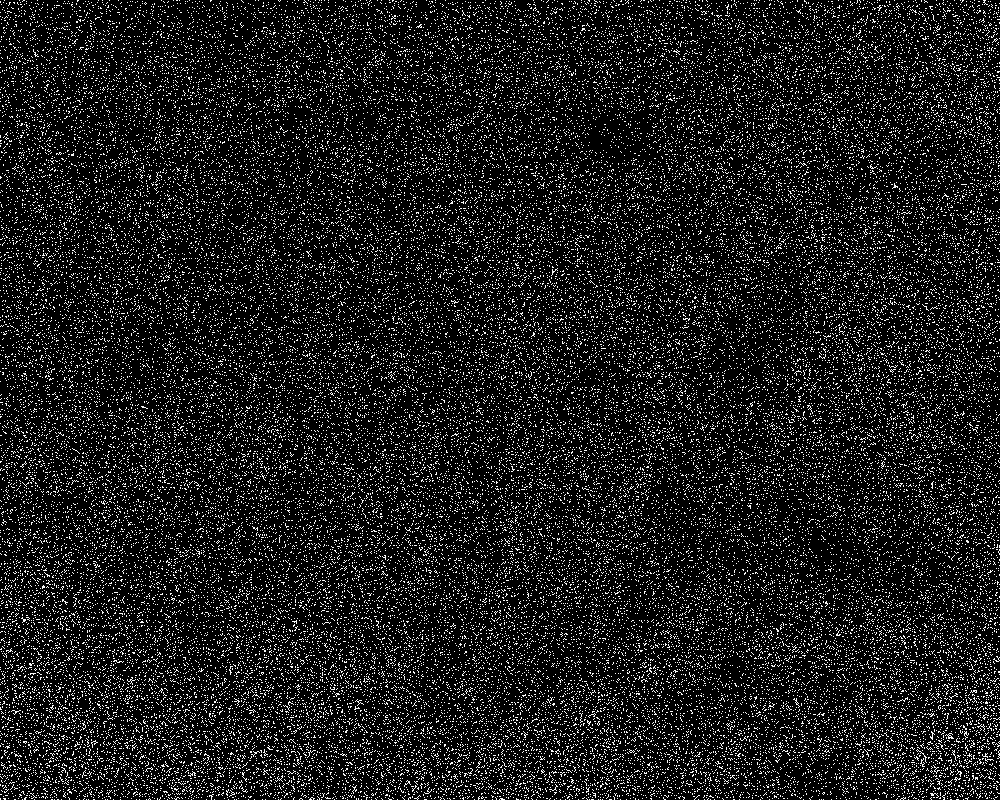
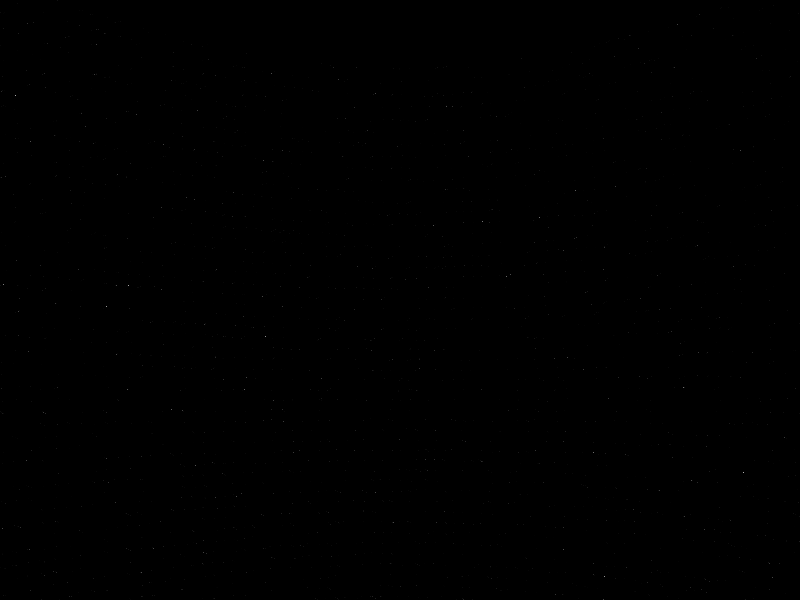
Working psf renderer (without PSF currently, but starfield renders, with distortion

diff --git a/src/rendering.rs b/src/rendering.rs
@@ -92,16 +92,20 @@ pub fn render_stars(
     );
     let pixel_ratio_w = width as f64 / fov_w;
     let pixel_ratio_h = height as f64 / fov_h;
+    let x_offset = width as f64 / 2.0;
+    let y_offset = width as f64 / 2.0;
 
     for star in stars {
         let std_star_coords = star.coords.to_standard(center);
         let std_star_mat = SMatrix::<f64, 2, 1>::new(std_star_coords.x, std_star_coords.y);
         let final_star_pos = z_roll_mat * std_star_mat;
 
-        let x = final_star_pos.x * pixel_ratio_w;
-        let y = final_star_pos.y * pixel_ratio_h;
+        let x = final_star_pos.x * pixel_ratio_w + x_offset;
+        let y = final_star_pos.y * pixel_ratio_h + y_offset;
+        println!("(x, y) | ({},{})", x, y);
         if (x < 0.0 || x > width as f64 || y < 0.0 || y > height as f64) {
-            break;
+            println!("Discarding star at ({}, {})", x, y);
+            continue;
         }
 
         // Inverse the magnitude scale (brighter stars have lower magnitudes)
@@ -110,23 +114,8 @@ pub fn render_stars(
         let brightness = (normalized_mag.powf(2.5) * 255.0) as u8;
         let color = Rgb([brightness, brightness, brightness]);
 
-        //img.put_pixel((x + ((width as f64) / 2.0)) as u32, (y + (height as f64) / 2.0) as u32, color);
         img.put_pixel(x as u32, y as u32, color);
     }
-    /*let std_star_coords = stars[0].coords.to_standard(center);
-    let std_star_mat = SMatrix::<f64, 2, 1>::new(std_star_coords.x, std_star_coords.y);
-    let final_star_pos = z_roll_mat * std_star_mat;
-
-    let x = final_star_pos.x * pixel_ratio_w;
-    let y = final_star_pos.y * pixel_ratio_h;
-
-    // Inverse the magnitude scale (brighter stars have lower magnitudes)
-    let normalized_mag = (max_mag - stars[0].mag) / (max_mag - min_mag);
-    // Apply a non-linear scaling to emphasize brighter stars
-    let brightness = 255;
-    let color = Rgb([brightness, brightness, brightness]);
-println!("x, y: {}, {}", x, y);
-    img.put_pixel((x + ((width as f64) / 2.0)) as u32, (y + (height as f64) / 2.0) as u32, color);*/
 
     img
 }

diff --git a/README.md b/README.md
@@ -20,7 +20,7 @@ Download catalog.dat from there, put it in data/tycho2/
 
 To run the airy disc renderer
 ```
-cargo run --bin airy_renderer
+cargo run --bin psf_renderer -- --roll-deg 0.0
 ```
 
 To run the original proof of concept generator:
